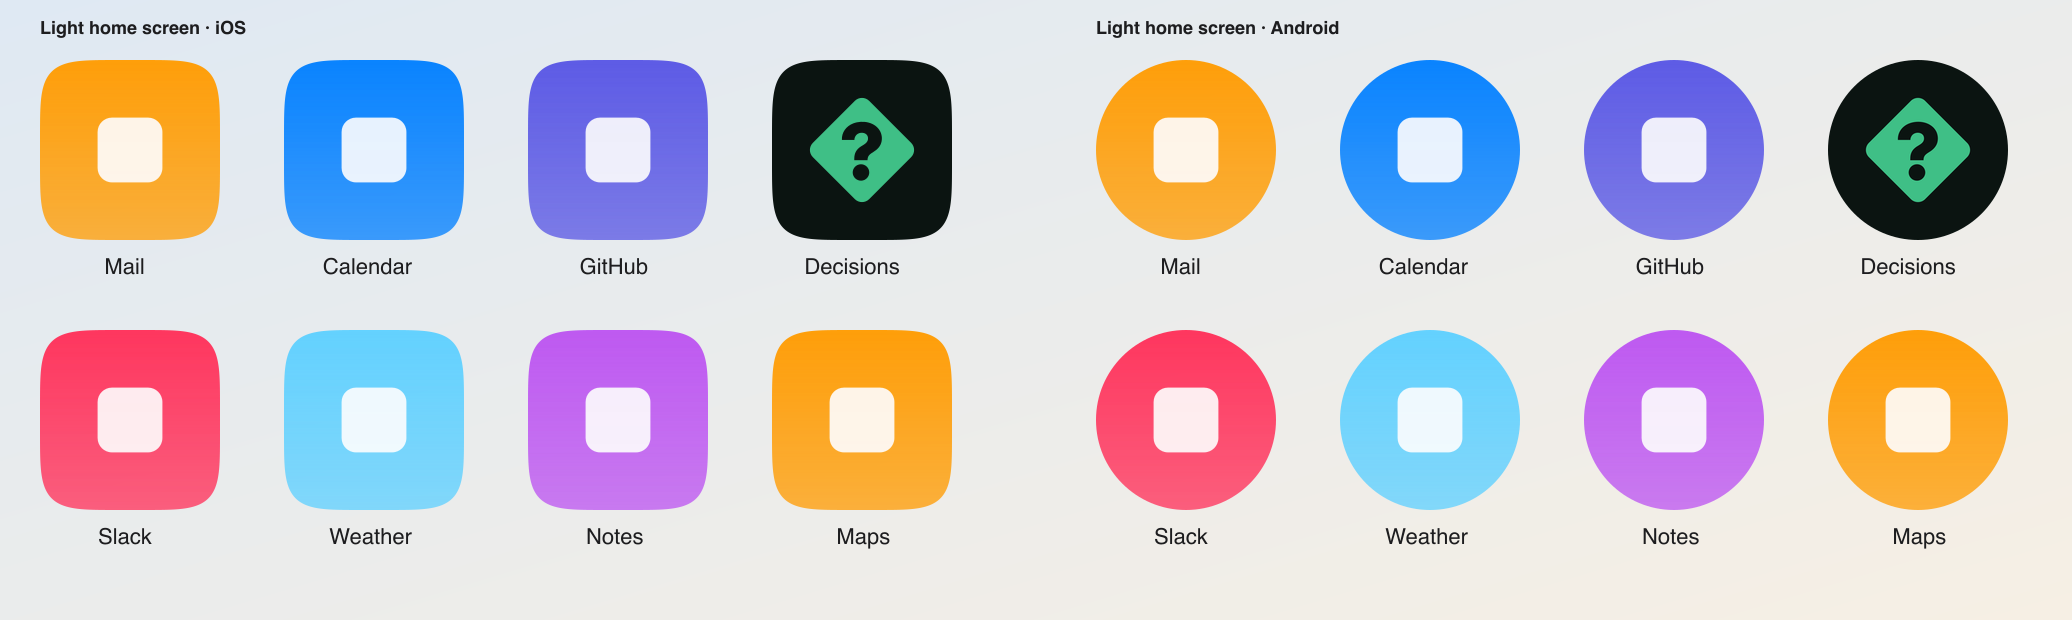
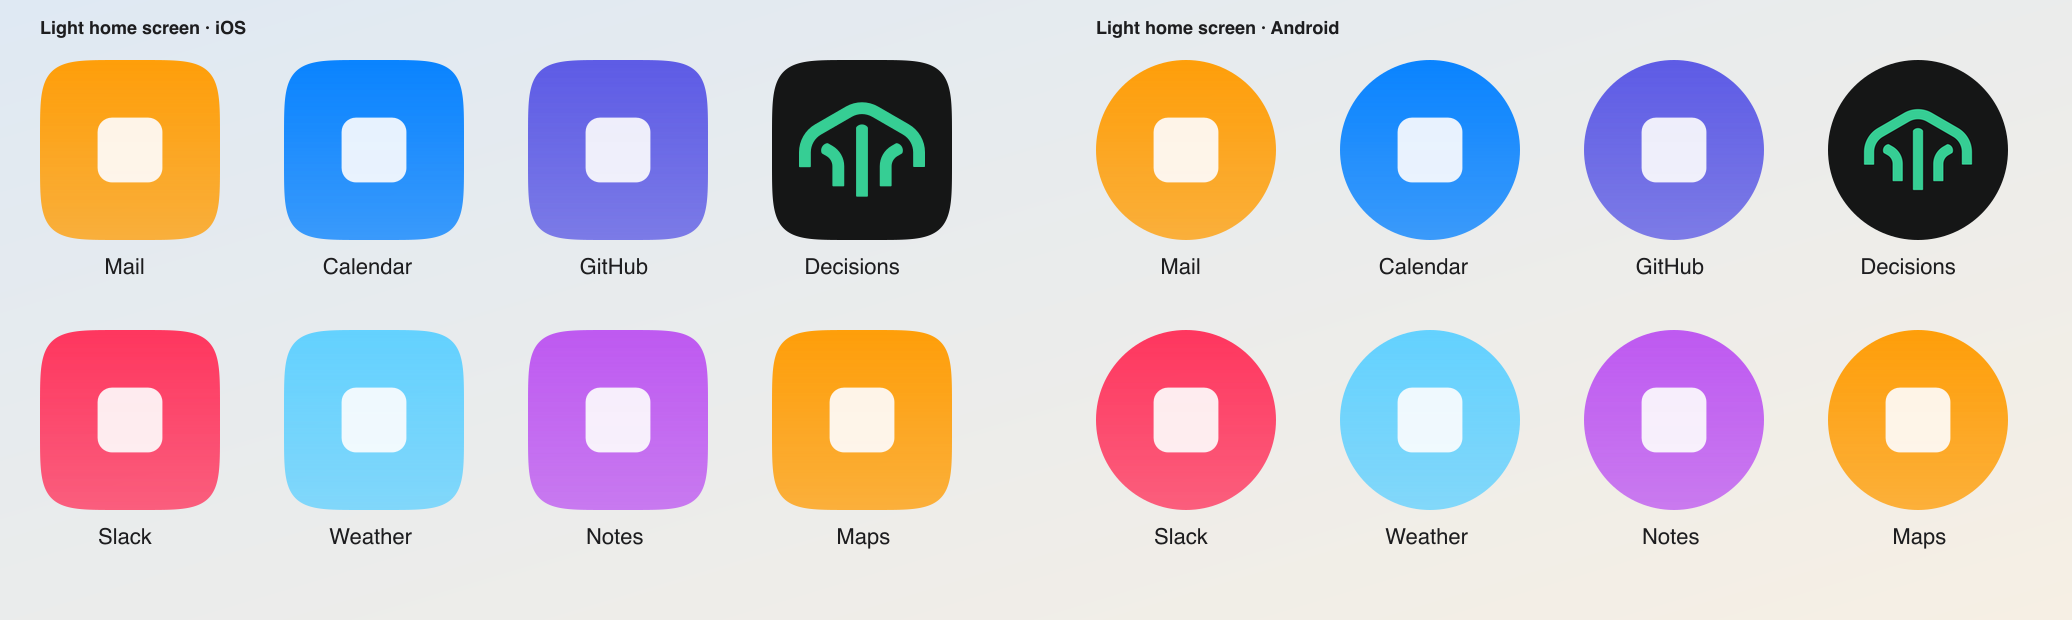
feat(app): wear Daintree's own mark, and never call a socket retry offline
Decisions now uses Daintree's canopy, trunk and roots mark on Daintree's tile
for every icon, the favicon, the header and the splash, sized as on Daintree's
app icon. The brand notes, previews and README images are regenerated.

A dropped socket on a device that is online is reconnecting, not offline: the
header no longer shows the Offline strip between retries, and the navigator and
History only say offline when the device has no network.

Changed region(s): [[0.3707, 0.1532, 0.4633, 0.3371], [0.8958, 0.1532, 0.9575, 0.3371]]

diff --git a/app/src/components/Shell.tsx b/app/src/components/Shell.tsx
@@ -28,14 +28,20 @@ const isOn = (to: string, path: string) =>
       ? path.startsWith('/settings') || path.startsWith('/devices')
       : path.startsWith(to);
 
-/** The Decisions mark (public/icons/mark.svg), inline so it takes the tile's colour. */
+/** The Daintree mark (public/icons/mark.svg; Daintree's own DaintreeIcon), inline so it takes the tile's colour. `size` is its width; it sits at 70% of its tile, as on the app icon. */
 export function Mark({ size = 18 }: { size?: number }) {
   return (
-    <svg viewBox="0 0 512 512" width={size} height={size} fill="currentColor" aria-hidden="true">
-      <path
-        fillRule="evenodd"
-        d="M222.059 23.059A48 48 0 0 1 289.941 23.059L488.941 222.059A48 48 0 0 1 488.941 289.941L289.941 488.941A48 48 0 0 1 222.059 488.941L23.059 289.941A48 48 0 0 1 23.059 222.059Z M282.2 304.4C282.2 300.8 282.3 298.7 283.3 293.7C287.4 274.5 308.3 268.5 323.5 255.8C340.4 241.7 350.8 224.2 350.2 198.6C350 190.4 347.6 178.2 342.8 168.7C319.9 123.5 259.2 112.7 214.3 130C181.2 142.8 158.9 172.4 160.7 208.3L220 208.3C220 204.5 220.3 201.6 221.4 198.4C224.1 190.6 228.3 184.1 235.7 179.5C253 168.8 282.2 174.2 284.5 197.8C286.9 221.7 264.2 230.3 249.9 239.8C229.9 253.2 219.7 270.4 219.4 295.5C219.4 298.5 219.4 301.5 219.4 304.4H282.2ZM290.4 361.7C289.9 340.3 271.9 323.3 250.7 323.6C228.3 324 211.3 342.4 211.9 363.7C212.5 384.8 230.7 402.3 252.9 401.4C273.9 400.6 290.9 382.4 290.4 361.7Z"
-      />
+    <svg
+      viewBox="0 0 177.31 132.85"
+      width={size}
+      height={size}
+      fill="currentColor"
+      aria-hidden="true"
+    >
+      <path d="M95.92,132.85h-14.52c-.59,0-1.07-.48-1.07-1.07V36.42c0-.74.27-1.46.77-1.99,2.04-2.17,4.79-3.25,7.55-3.25s5.52,1.09,7.55,3.26c.5.54.77,1.26.77,1.99v95.35c0,.59-.47,1.07-1.07,1.07Z" />
+      <path d="M177.31,70.43v19.64c0,.59-.48,1.07-1.07,1.07h-14.52c-.59,0-1.07-.48-1.07-1.07v-19.67c0-10.29-5.49-19.81-14.41-24.95l-43.18-24.93c-8.92-5.15-19.9-5.15-28.82,0l-43.18,24.93c-8.92,5.15-14.41,14.66-14.41,24.95v17.75c0,.06,0,.13,0,2.14,0,.59-.48,1.07-1.07,1.07H1.07c-.59,0-1.07-.48-1.07-1.07v-19.86c0-16.27,8.68-31.3,22.76-39.43L65.89,6.1c14.09-8.13,31.44-8.13,45.53,0l43.12,24.89c14.09,8.13,22.77,23.17,22.77,39.44Z" />
+      <path d="M63.66,90.05v27.19c0,.59-.48,1.07-1.07,1.07h-14.52c-.59,0-1.07-.48-1.07-1.07v-27.17c0-5.9-3.15-11.34-8.26-14.3l-5.83-3.37c-.66-.38-1.15-1-1.36-1.73s-.41-1.76-.41-2.89c0-4.68,3.21-8.98,7.99-10.11.72-.17,1.48-.05,2.13.32l5.84,3.36c10.25,5.92,16.56,16.85,16.56,28.69Z" />
+      <path d="M113.65,90.05v27.19c0,.59.48,1.07,1.07,1.07h14.52c.59,0,1.07-.48,1.07-1.07v-27.17c0-5.9,3.15-11.34,8.26-14.3l5.83-3.37c.66-.38,1.15-1,1.36-1.73s.41-1.76.41-2.89c0-4.68-3.21-8.98-7.99-10.11-.72-.17-1.48-.05-2.13.32l-5.84,3.36c-10.25,5.92-16.56,16.85-16.56,28.69Z" />
     </svg>
   );
 }
@@ -44,7 +50,7 @@ function Brand() {
   return (
     <Link to="/" className="brand" aria-label="Daintree Decisions, questions">
       <span className="brand-mark">
-        <Mark size={15} />
+        <Mark size={20} />
       </span>
       <span className="brand-name">Decisions</span>
     </Link>
@@ -62,12 +68,9 @@ const syncedLabel = (at: number | null) =>
  */
 export function ConnectionPill({ quiet = false }: { quiet?: boolean } = {}) {
   const { connection, online, syncing, lastSyncedAt } = useApp();
-  const cls =
-    !online || connection === 'offline'
-      ? 'off'
-      : connection === 'live' || connection === 'polling'
-        ? 'live'
-        : 'wait';
+  // Offline means this device has no network. The sync engine also reports 'offline' between socket retries while
+  // the device is online; that is reconnecting, not offline, and must not claim the network is gone.
+  const cls = !online ? 'off' : connection === 'live' || connection === 'polling' ? 'live' : 'wait';
   const label =
     cls === 'off'
       ? 'Offline'
@@ -107,8 +110,9 @@ export function ConnectionPill({ quiet = false }: { quiet?: boolean } = {}) {
 /** One compact strip, only when offline or when reconnecting has taken a while. */
 function ConnectionStrip() {
   const { online, connection } = useApp();
-  const offline = !online || connection === 'offline';
-  const reconnecting = !offline && (connection === 'connecting' || connection === 'idle');
+  const offline = !online;
+  const reconnecting =
+    !offline && (connection === 'connecting' || connection === 'idle' || connection === 'offline');
   const [long, setLong] = useState(false);
   useEffect(() => {
     if (!reconnecting) {

diff --git a/app/src/components/navigator/Navigator.tsx b/app/src/components/navigator/Navigator.tsx
@@ -228,7 +228,8 @@ export function NavigatorPanel({
 
   const loading =
     snap.phase === 'loading' || (snap.syncing && all.length === 0 && !snap.lastSyncedAt);
-  const offline = !snap.online || snap.connection === 'offline';
+  // Offline is the device's network; a socket between retries is reconnecting, not offline.
+  const offline = !snap.online;
   const connected = snap.connection === 'live' || snap.connection === 'polling';
   const filtered = !!(nav.project || nav.computer);
   const searching = query.trim().length > 0;

diff --git a/app/src/routes/History.tsx b/app/src/routes/History.tsx
@@ -259,7 +259,8 @@ export function HistoryPage() {
   }, [wide, h.record, dismiss]);
 
   const searching = query.trim().length > 0;
-  const offline = !snap.online || snap.connection === 'offline';
+  // Offline is the device's network; a socket between retries is reconnecting, not offline.
+  const offline = !snap.online;
   const coverage = [
     searching ? 'Searching questions saved on this device' : 'Saved on this device',
     offline

diff --git a/app/src/App.tsx b/app/src/App.tsx
@@ -29,7 +29,7 @@ export function App() {
     return (
       <div className="splash" role="status" aria-label="Loading Decisions">
         <span className="splash-tile">
-          <Mark size={34} />
+          <Mark size={50} />
         </span>
       </div>
     );

diff --git a/docs/brand/README.md b/docs/brand/README.md
@@ -1,26 +1,26 @@
-# The Decisions mark
+# The mark
 
-A flowchart decision node holding the question your agent is asking: a rounded diamond with a question mark cut out of it. The diamond says "decision", the question mark says "waiting on you", which is the one thing the app ever asks of its user. It is one colour by construction (the question mark is a hole in a single `evenodd` path), so the same geometry works as an app icon, an alpha-only notification badge and a `currentColor` glyph.
+Decisions wears Daintree's own mark: the canopy, trunk and roots from Daintree's `DaintreeIcon`. It is Daintree's sister app, and on a home screen, a dock or a notification shade the two should read as one product rather than two that happen to look alike. Earlier versions used a separate mark of their own (a rounded decision diamond with a question mark cut out of it); it was retired so the family has one face.
 
-A check was tried first and dropped: it reads as "approved" or "done", the state after the interaction. A fork cut into the diamond read as a back arrow at small sizes, and a hand-drawn question mark was never as good as a real heavy-sans glyph.
+The mark is one colour by construction, so the same geometry works as an app icon, an alpha-only notification badge and a `currentColor` glyph.
 
 ## Source
 
-[`app/public/icons/mark.svg`](../../app/public/icons/mark.svg) is the only source. It was generated as a raster, traced to a single `evenodd` path with crisp-vector, normalised to a 512 grid, and then regularised by hand: the diamond is an exact construction (straight diagonal sides, equal 48-unit corners) and the question mark's terminals were squared off. It fills with `currentColor`, which makes it the monochrome variant too: inline it, or load it as a mask, and it takes the surrounding text colour. Daintree uses it as-is in its Settings tab and on the pane chip.
+[`app/public/icons/mark.svg`](../../app/public/icons/mark.svg) is the only source in this repository. Its four paths are Daintree's `DaintreeIcon` paths unchanged, on their native 177.31 × 132.85 grid, fitted to the full width of a 512 box and optically centred. It fills with `currentColor`, which makes it the monochrome variant too: inline it, or load it as a mask, and it takes the surrounding text colour. The header's inline glyph (`Mark` in `app/src/components/Shell.tsx`) uses the same paths. If Daintree's mark ever changes, copy its paths into both.
 
 Everything else is generated from it by [`app/scripts/make-icons.mjs`](../../app/scripts/make-icons.mjs) (`pnpm --filter @daintreehq/decisions-app icons`):
 
-| File                                             | Use                                                                                                                                     |
-| ------------------------------------------------ | --------------------------------------------------------------------------------------------------------------------------------------- |
-| `icon.svg`                                       | Favicon. Bondi's deep-water `#004e6b` on light browser chrome, Daintree mint `#36ce94` on dark (`prefers-color-scheme` inside the SVG). |
-| `icon-192.png`, `icon-512.png`                   | Manifest `any`: the mark on the dark rounded tile. Also the notification `icon`.                                                        |
-| `icon-maskable-192.png`, `icon-maskable-512.png` | Manifest `maskable`: full-bleed opaque tile, mark well inside the 80% safe-zone circle.                                                 |
-| `apple-touch-icon.png`                           | 180×180, opaque, square: iOS applies its own corners.                                                                                   |
-| `badge-96.png`                                   | Notification `badge`: white silhouette on transparency, since Android draws only the alpha channel.                                     |
+| File                                             | Use                                                                                                                                         |
+| ------------------------------------------------ | ------------------------------------------------------------------------------------------------------------------------------------------- |
+| `icon.svg`                                       | Favicon. Bondi's deep-water `#004e6b` on light browser chrome, Daintree mint `#36ce94` on dark (`prefers-color-scheme` inside the SVG).     |
+| `icon-192.png`, `icon-512.png`                   | Manifest `any`: the mark at 70% of the tile's width on the dark rounded tile, exactly as Daintree's app icon. Also the notification `icon`. |
+| `icon-maskable-192.png`, `icon-maskable-512.png` | Manifest `maskable`: full-bleed opaque tile, mark at 60% width so its corners stay inside the 80% safe-zone circle.                         |
+| `apple-touch-icon.png`                           | 180×180, opaque, square: iOS applies its own corners.                                                                                       |
+| `badge-96.png`                                   | Notification `badge`: white silhouette on transparency, since Android draws only the alpha channel.                                         |
 
 ## Colours
 
-The icon wears Daintree's own app tile: mark `#36ce94` (Daintree's accent) on tile `#151616` (the tile in Daintree's `build/icon-design.svg`), so the two apps sit side by side on a home screen or dock as one family. The mark itself stays Decisions' own: it relates through colour, weight and simplicity and does not borrow Daintree's canopy, trunk or roots.
+The icon is Daintree's app tile: mark `#36ce94` (Daintree's accent) on tile `#151616` (the tile in Daintree's `build/icon-design.svg`).
 
 Inside the app every colour comes from Daintree's theme engine (the Daintree and Bondi themes, generated into `app/src/styles/theme.generated.css` by `pnpm --filter @daintreehq/decisions-app theme`); see [the redesign guide](../design/redesign.md#2-visual-system).
 

diff --git a/docs/design/redesign.md b/docs/design/redesign.md
@@ -127,7 +127,7 @@ Daintree's tiers, all under 300 ms: state changes 150 ms ease-out; panel and she
 
 - One icon set drawn as inline SVG (the CSP forbids external assets). Glyphs follow Lucide's geometry at 1.75 stroke so they match Daintree; one glyph per recurring action (copy, refresh, edit, close, chevrons, mic, stop square, send, files, expand, compare).
 - Severity glyphs are fixed: error `XCircle`, warning `AlertTriangle`, info `Info`, success `CheckCircle2`.
-- The Decisions mark (the diamond with a question mark) stays. It is recoloured to the Daintree accent on the Daintree grid tile, matching Daintree's own icon tile (`#151616` with the mint mark). Header branding is a small mark plus "Decisions"; never a large logo on a working screen.
+- Decisions wears Daintree's own mark (canopy, trunk and roots) on Daintree's icon tile (`#151616` with the mint mark), so the two apps read as one family. Header branding is a small mark plus "Decisions"; never a large logo on a working screen. See `docs/brand/README.md`.
 
 ## 3. Layout, navigation and platforms
 
